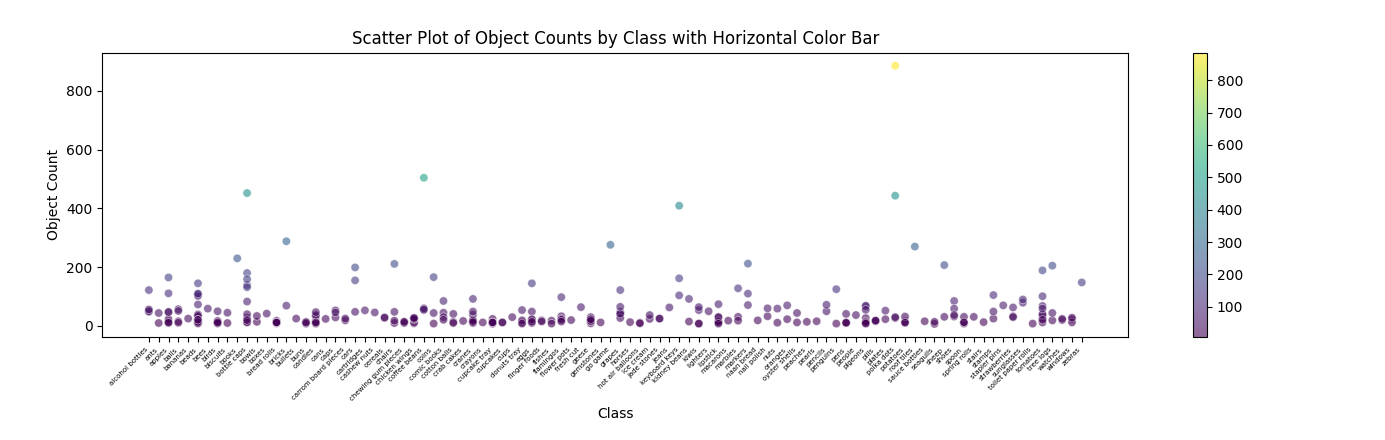
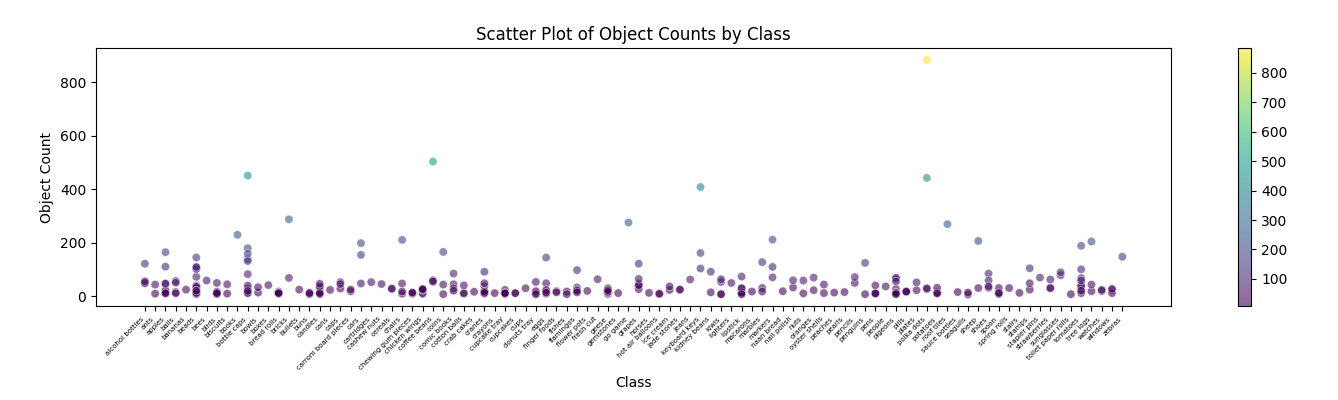
more plots

diff --git a/analysis_summary.py b/analysis_summary.py
@@ -37,7 +37,7 @@ def scatter_plot():
     # Adding labels and title
     ax.set_xlabel('Class')
     ax.set_ylabel('Object Count')
-    ax.set_title('Scatter Plot of Object Counts by Class with Horizontal Color Bar')
+    ax.set_title('Scatter Plot of Object Counts by Class')
 
     # Adding a horizontal color bar
     cbar = plt.colorbar(scatter, orientation='vertical')
@@ -110,12 +110,32 @@ def count_size():
     print("Count 2 (20 <= object_count < 100):", count2)
     print("Count 3 (object_count >= 100):", count3) 
 
+    unique_categories = true_data['class'].nunique()
+
+    print("Number of unique categories:", unique_categories)
+
+    mean_count = true_data['object_count'].mean()
+
+    print(f"Mean of object_count: {mean_count}")
+
+
+    # Calculate the minimum and maximum values
+    min_count = true_data['object_count'].min()
+    max_count = true_data['object_count'].max()
+
+    # Calculate the range
+    count_range = max_count - min_count
+
+    print(f"Minimum count: {min_count}")
+    print(f"Maximum count: {max_count}")
+    print(f"Range of count: {count_range}")
+
 def main():
     # true_count_boxplot()
-    # scatter_plot()
+    scatter_plot()
     # human_performance()
     # gpt_performance()
-    count_size()
+    # count_size()
 
 if __name__ == "__main__":
     main()
